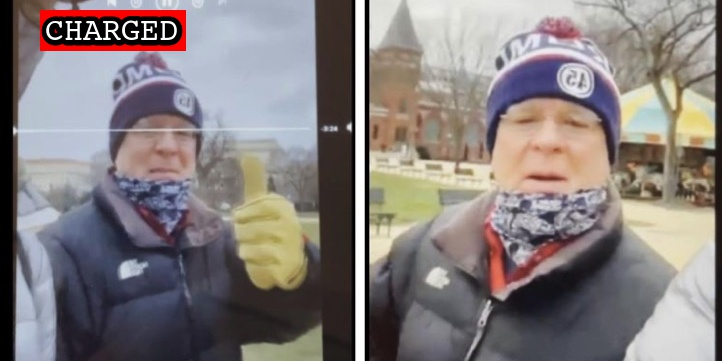
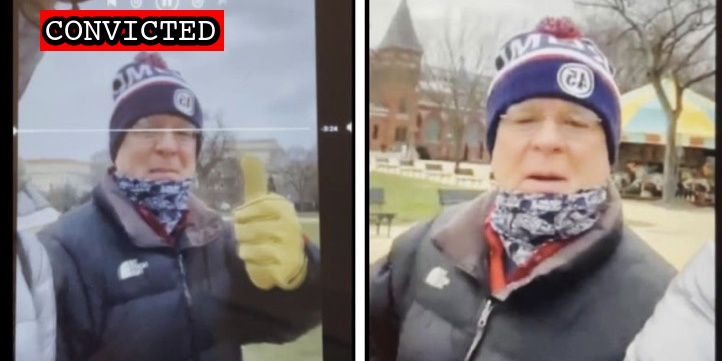
New plea and sentence

Changed region(s): [[0.0914, 0.0, 0.3352, 0.1524]]

diff --git a/docs/_suspects/david-johnston.md b/docs/_suspects/david-johnston.md
@@ -4,18 +4,19 @@ lastName: Johnston
 hashtag:
 aka:
 residence: South Carolina
-status: Charged
+status: Convicted
 date: 2022-05-16
 charged: 2022-05-16
 indicted:
-convicted:
+convicted: 2022-09-23
 acquitted:
 sentenced:
 dismissed:
 deceased:
 plea_hearing: 2022-09-23
 trial_date:
-sentencing:
+trial_type:
+sentencing: 2022-12-16
 age: 69
 occupation: Attorney
 affiliations:
@@ -36,10 +37,15 @@ published: true
 caseNumber: 1:22-mj-109
 videos:
 charges:
+- code: 40 USC § 5104(e)(2)(G)
+  title: Parading, demonstrating or picketing in a Capitol building
+  url: https://www.law.cornell.edu/uscode/text/40/5104
+  felony: false
 sentence:
 ---
-
 - [News Report](https://www.heraldonline.com/news/local/crime/article261637562.html)
 - [Complaint](https://www.justice.gov/usao-dc/case-multi-defendant/file/1507411/download)
 - [Statement of Facts](https://www.justice.gov/usao-dc/case-multi-defendant/file/1507416/download)
 - [Information](https://extremism.gwu.edu/sites/g/files/zaxdzs2191/f/Chad%20Clifton%20and%20David%20Johnston%20Information.pdf)
+- [Plea Agreement](https://storage.courtlistener.com/recap/gov.uscourts.dcd.243639/gov.uscourts.dcd.243639.25.0.pdf)
+- [Statement of Offense](https://storage.courtlistener.com/recap/gov.uscourts.dcd.243639/gov.uscourts.dcd.243639.26.0_1.pdf)

diff --git a/docs/_suspects/thomas-hamner.md b/docs/_suspects/thomas-hamner.md
@@ -4,17 +4,18 @@ lastName: Hamner
 hashtag: UglyGunSweater
 aka:
 residence: Colorado
-status: Convicted
+status: Sentenced
 date: 2021-10-29
 charged: 2021-10-29
 indicted: 2021-11-19
 convicted: 2022-05-17
 acquitted:
-sentenced:
+sentenced: 2022-09-23
 dismissed:
 deceased:
 plea_hearing: 2022-05-17
 trial_date:
+trial_type:
 sentencing: 2022-09-23
 age:
 occupation:
@@ -41,6 +42,9 @@ charges:
     url: https://www.law.cornell.edu/uscode/text/18/231
     felony: true
 sentence:
+  - 40 months incarceration
+  - 3 years probation
+  - $500 restitution
 ---
 
 - [News Report](https://www.thedenverchannel.com/news/local-news/colorado-man-charged-accused-of-fighting-with-police-at-jan-6-riot)
